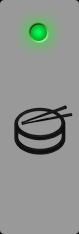
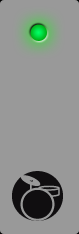
Updated the side panel graphics. Updates the release_notes.txt.

Changed region(s): [[0.1519, 0.7179, 0.8101, 0.9573], [0.1772, 0.4487, 0.9367, 0.688]]

diff --git a/src/qml/DrumMachine/DrumMachine.qml b/src/qml/DrumMachine/DrumMachine.qml
@@ -174,10 +174,8 @@ Image {
                 DrumButton {
                     width: drumGrid.drumButtonWidth
                     height: drumGrid.drumButtonHeight
-
                     unselectedSource: "../images/drumbutton.png"
                     selectedSource: "../images/drumbuttonselected.png"
-
                     tick: index % 32
                     sample: Math.floor(index / 32)
                     onButtonToggled: drumMachine.drumButtonToggled(tick,

diff --git a/src/qml/TurnTable.qml b/src/qml/TurnTable.qml
@@ -34,10 +34,10 @@ Rectangle {
             event.accepted = true
         }
         else if(event.key == Qt.Key_PageDown) {
-            diskReflection.rotation += 45
+            diskReflection.rotation += 11.25
         }
         else if(event.key == Qt.Key_PageUp) {
-            diskReflection.rotation -= 45
+            diskReflection.rotation -= 11.25
         }
         else if(event.key == Qt.Key_Backspace) {
             if(flickable.state == "Help") {
